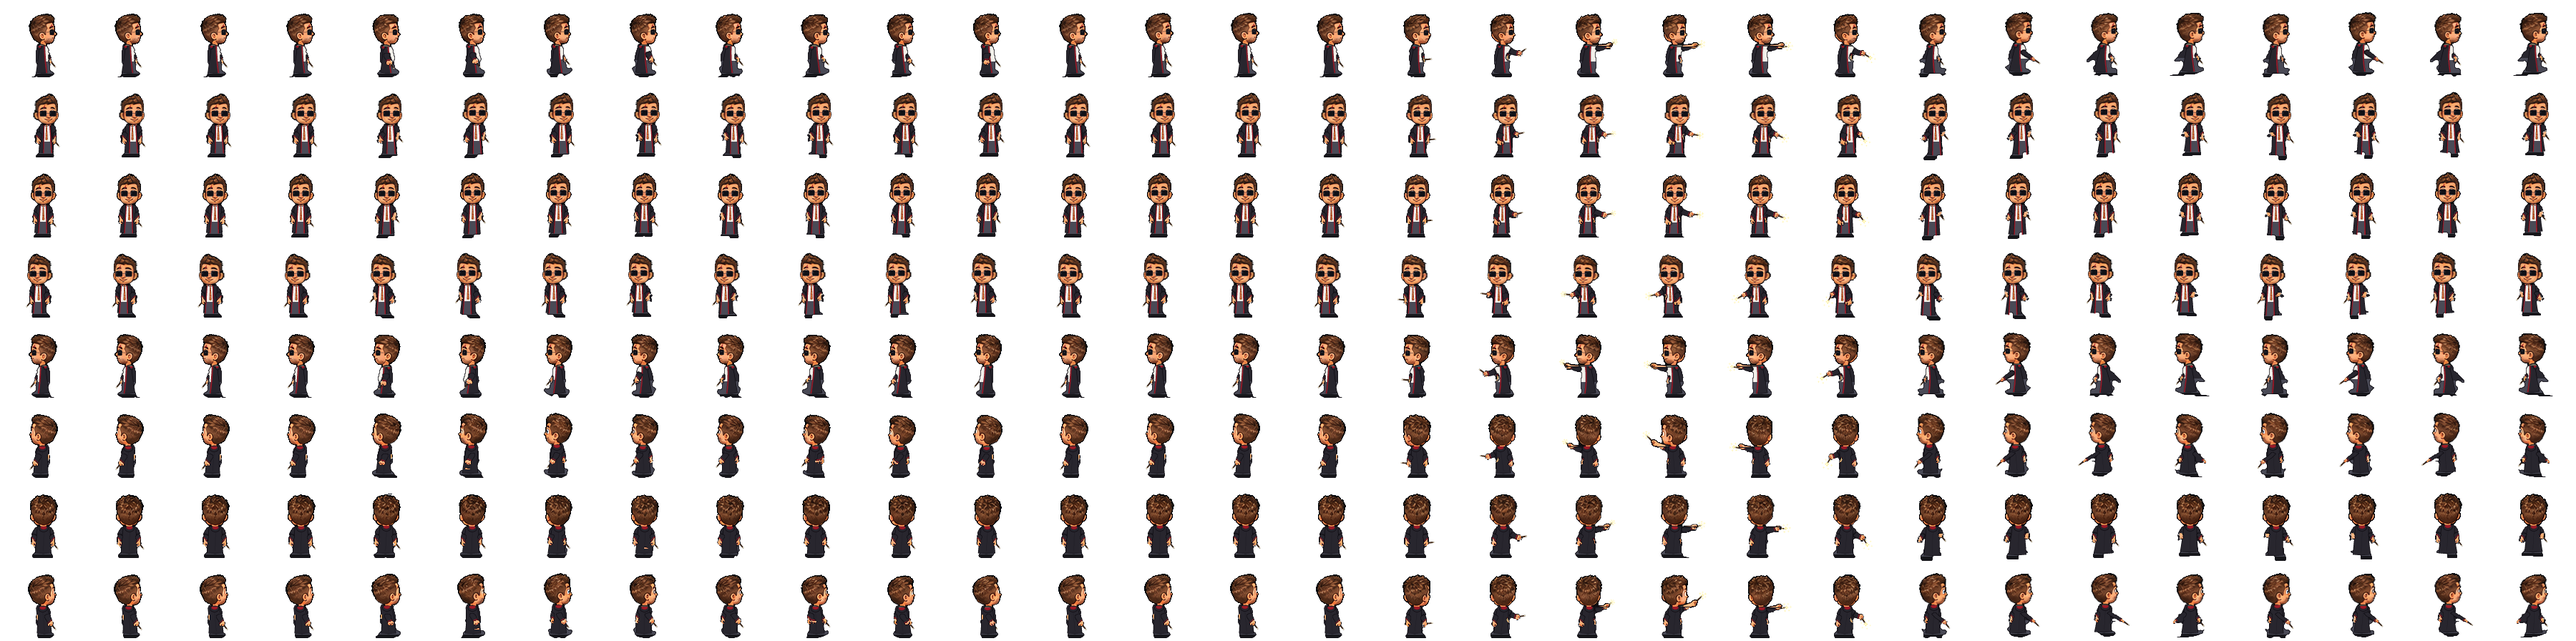
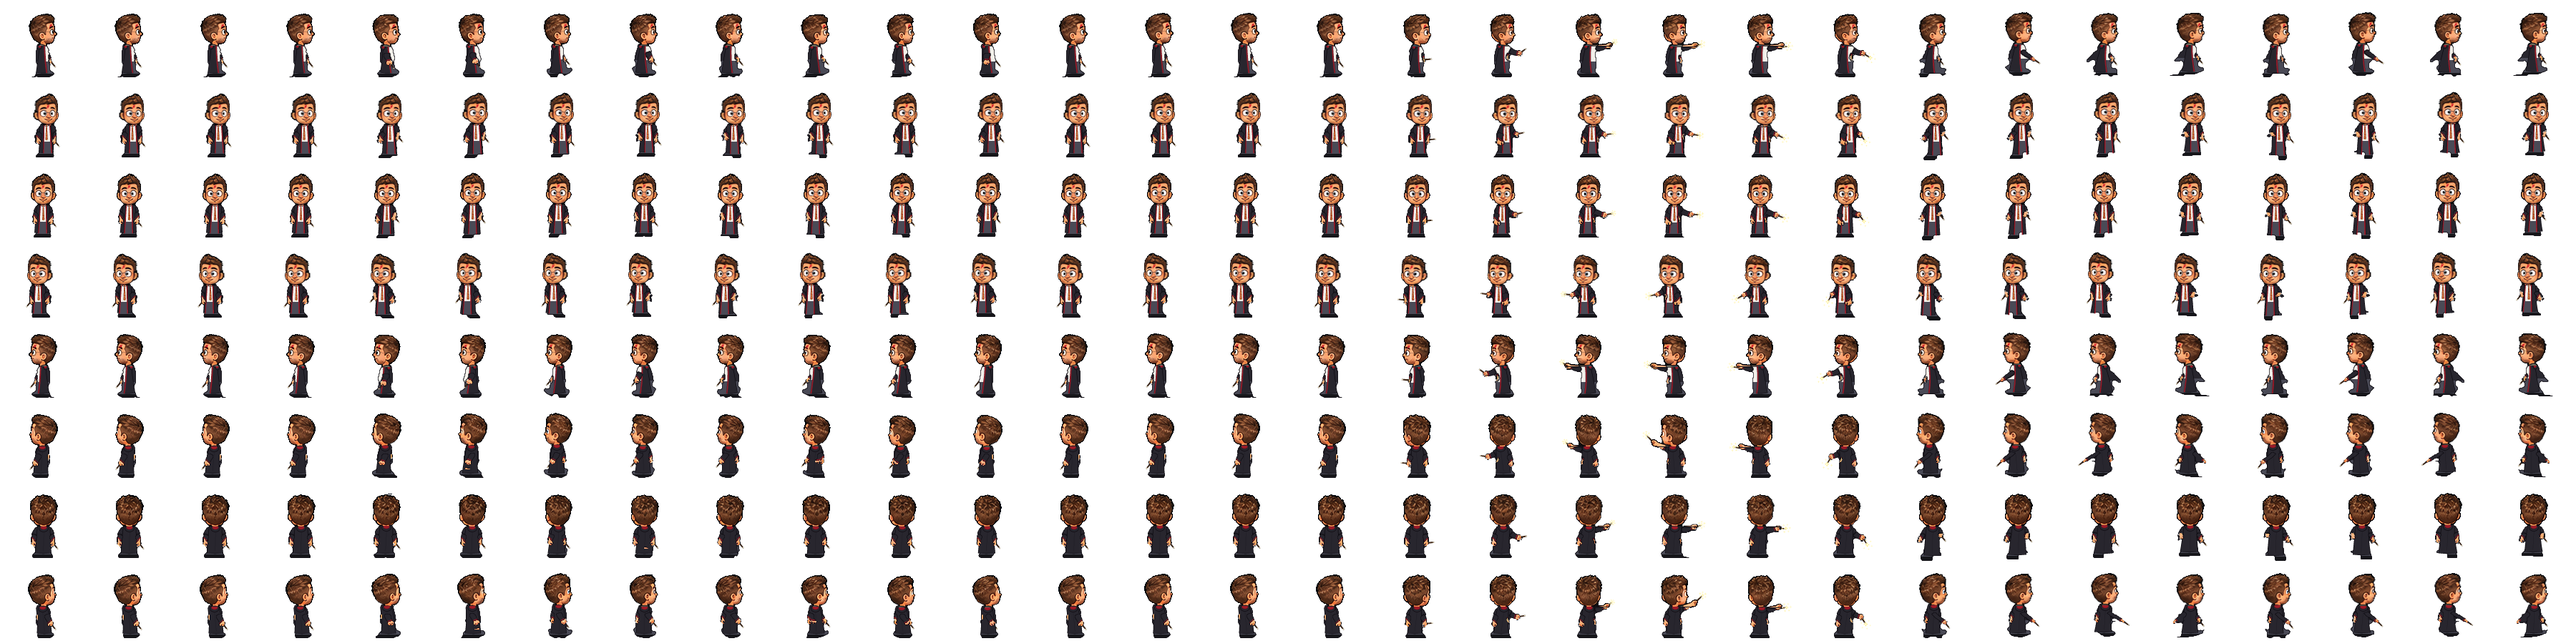
Wizard James: clear round spectacles and a centred red lightning-bolt scar

diff --git a/phaser-tag-client/tools/make_wizard_skin.py b/phaser-tag-client/tools/make_wizard_skin.py
@@ -14,8 +14,9 @@ held-item rules) with the smooth 4x rendering of make_trex_skin.py:
     swaying with the walk/run cycle;
   * the arms become black robe sleeves with crimson cuffs; hands, face and
     hair are James's own pixels, untouched;
-  * dark sunglasses over the eyes and a small lightning-bolt scar on the
-    forehead (front/side views);
+  * round wire-rim spectacles with clear glass (James's real eyes show
+    through) and a red lightning-bolt scar centred on the forehead
+    (front/side views, hidden from the back);
   * a wand in the tagging hand (in front of the body, behind it in back
     views) that sweeps through an arc on tag with a sparkle burst at the tip.
 
@@ -62,7 +63,8 @@ TIE_GOLD = (226, 178, 52)
 LENS = (16, 16, 22)
 LENS_GLINT = (110, 124, 150)
 FRAME = (30, 28, 34)
-SCAR = (168, 30, 40)
+SCAR = (212, 30, 40)
+GLINT = (236, 244, 255, 170)
 WAND = (74, 46, 28)
 WAND_LINE = (30, 18, 10)
 WAND_TIP = (236, 224, 190)
@@ -256,8 +258,18 @@ def find_eyes(f: np.ndarray, g: Geometry):
     return [(x, y) for x, y, _ in out[:2]]
 
 
+EYE_R = 4.2
 EYE_HW = 4.5     # lens half-width / height cover the whole eye
 EYE_HH = 3.4
+
+
+def lens(d, ex, ey, r, rx=None):
+    """Round wire-rim lens: clear glass (the real eye shows through), thin
+    dark rim and a faint glint."""
+    rx = r if rx is None else rx
+    d.ellipse([S(ex - rx), S(ey - r), S(ex + rx), S(ey + r)], outline=FRAME, width=max(1, int(round(S(0.55)))))
+    d.arc([S(ex - rx + 0.9), S(ey - r + 0.9), S(ex + rx - 0.9), S(ey + r - 0.9)], 200, 250,
+          fill=GLINT, width=max(1, int(round(S(0.45)))))
 
 
 def face_layer(size, direction, eyes, g) -> Image.Image:
@@ -267,17 +279,13 @@ def face_layer(size, direction, eyes, g) -> Image.Image:
     if not eyes:
         return im
     eyes = sorted(eyes)
-    lw = int(S(0.5))
     if direction in PROFILE:
         fc = PROFILE[direction]
         ex, ey = eyes[0] if fc < 0 else eyes[-1]
-        ex += fc * 0.3
-        d.line([(S(ex - fc * 1.2), S(ey - 0.6)), (S(ex - fc * 7.5), S(ey - 0.2))], fill=FRAME, width=int(S(0.8)))
-        d.rounded_rectangle([S(ex - 3.0), S(ey - EYE_HH - 0.3), S(ex + 3.0), S(ey + EYE_HH)], radius=S(1.2),
-                            fill=LENS, outline=FRAME, width=lw)
-        d.line([(S(ex - 0.6), S(ey - 0.9)), (S(ex + 0.6), S(ey - 0.9))], fill=LENS_GLINT, width=lw)
-        sx, sy = ex - fc * 0.6, ey - 9.2
-        bolt(d, sx, sy)
+        r = EYE_R
+        d.line([(S(ex - fc * r * 0.75), S(ey - 0.8)), (S(ex - fc * 7.5), S(ey - 0.4))], fill=FRAME, width=int(S(0.6)))
+        lens(d, ex + fc * 0.3, ey, r, r * 0.72)
+        bolt(d, ex - fc * 1.2, ey - 9.0)
         return im
     if len(eyes) == 1:
         x, y = eyes[0]
@@ -287,22 +295,22 @@ def face_layer(size, direction, eyes, g) -> Image.Image:
     (x0, y0), (x1, y1) = eyes
     yc = (y0 + y1) / 2
     gap = x1 - x0
-    hw = max(2.6, min(EYE_HW, gap * 0.46))
+    r = max(3.0, min(EYE_R, gap * 0.45))
     for ex in (x0, x1):
-        d.rounded_rectangle([S(ex - hw), S(yc - EYE_HH - 0.4), S(ex + hw), S(yc + EYE_HH + 0.2)], radius=S(1.3),
-                            fill=LENS, outline=FRAME, width=lw)
-        d.line([(S(ex - hw + 0.9), S(yc - 0.9)), (S(ex - hw + 1.9), S(yc - 0.9))], fill=LENS_GLINT, width=lw)
-    d.line([(S(x0 + hw), S(yc - 0.8)), (S(x1 - hw), S(yc - 0.8))], fill=FRAME, width=int(S(0.7)))
-    for ex, s in ((x0, -1), (x1, 1)):
-        d.line([(S(ex + s * hw), S(yc - 1.0)), (S(ex + s * (hw + 1.4)), S(yc - 1.3))], fill=FRAME, width=int(S(0.7)))
-    # bolt above the wearer's right eye (screen left from the front)
-    bolt(d, x0 + 1.5, yc - 9.6)
+        lens(d, ex, yc, r)
+    # bridge and temples
+    d.arc([S(x0 + r - 0.3), S(yc - 1.6), S(x1 - r + 0.3), S(yc + 0.6)], 200, 340, fill=FRAME, width=int(S(0.55)))
+    for ex, s_ in ((x0, -1), (x1, 1)):
+        d.line([(S(ex + s_ * r), S(yc - 0.6)), (S(ex + s_ * (r + 1.3)), S(yc - 1.0))], fill=FRAME, width=int(S(0.55)))
+    # scar: centred on the forehead, between the brows and the fringe
+    bolt(d, (x0 + x1) / 2, yc - 9.4)
     return im
 
 
 def bolt(d, x, y):
-    pts = [(x + 1.1, y - 1.9), (x - 0.6, y + 0.2), (x + 0.7, y - 0.1), (x - 1.1, y + 2.0)]
-    d.line([(S(px), S(py)) for px, py in pts], fill=SCAR, width=int(S(0.75)), joint="curve")
+    """Red 'N' lightning bolt (like the reference photo), ~5px tall."""
+    pts = [(x - 1.5, y + 2.4), (x - 0.3, y - 2.0), (x + 0.3, y + 1.0), (x + 1.6, y - 2.5)]
+    d.line([(S(px), S(py)) for px, py in pts], fill=SCAR, width=int(round(S(0.9))), joint="curve")
 
 
 # --- wand -------------------------------------------------------------------------
